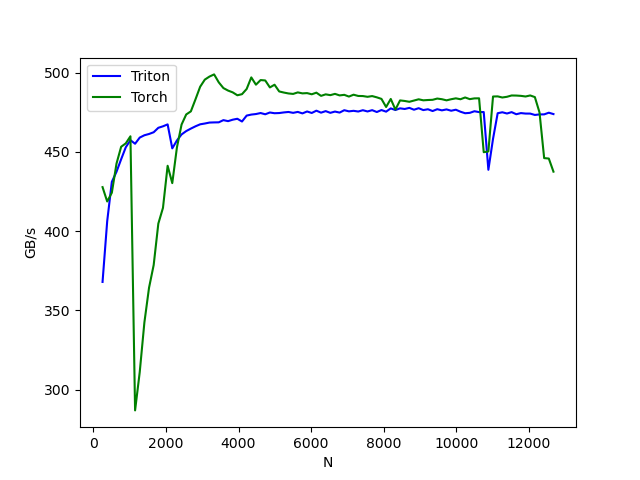
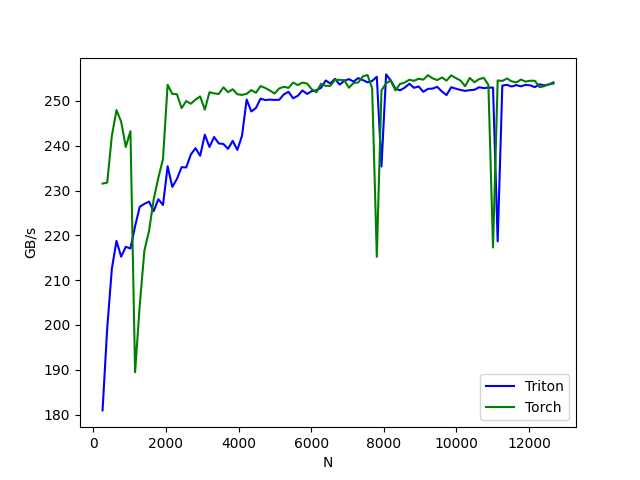
testing

diff --git a/results.html b/results.html
@@ -1,0 +1,3 @@
+<html><body>
+<image src="matmul-performance.png"/>
+</body></html>

diff --git a/02_fused_softmax/fused_softmax.py b/02_fused_softmax/fused_softmax.py
@@ -1,6 +1,5 @@
 """
-This "fused softmax" kernel will be significantly faster than pytorch's native op
- for a particular class of matrices: those whose rows can fit in the GPU's SRAM.
+This "fused softmax" kernel only works on matrices whose rows fit in the GPU's SRAM.
 
 What you'll learn:
 - The importance of reducing memory reads/writes
@@ -224,15 +223,15 @@ def softmax(x):
     num_programs = min(NUM_SM * programs_per_sm, n_rows)
         # ofc we have another limit since we've got no need to surpass the n_rows in the matrix
 
-    # grid configuration
-    grid_config = (num_programs,)
-        # first dimension: number of programs in x-directoin. Each row gets its own program
-        # our data parallelism is only along rows (first dimension) so we don't need 2D or 3D parallelism
-            # for matrix multiplication you would use (M, N)
-            # for 3D convolution you'd use (X, Y, Z)
+    # grid configuration; each row gets its own program
+    grid = (num_programs, 1, 1)
+        # the extra 1's are usually not necessary if they're not being used
+        # we use them here because the .warmup() we used earlier has a weird quirk in the way
+        #  it's implemented that forced only 3D launch grids to be inputted once it's been used
+        # in future lessons we don't use .warmup() so we'll not be required to do this again
 
     # And now we get to run the kernel with our heuristics-based launch grid
-    kernel[grid_config](
+    kernel[grid](
         x, y,
         x.stride(0), y.stride(0),
         n_rows, n_cols,
@@ -250,7 +249,7 @@ def test_softmax_kernel(size: tuple, atol=1e-3, rtol=1e-3, device=DEVICE):
     """
     # create input data
     torch.manual_seed(0)
-    assert type(size) == tuple and len(size == 2)
+    assert type(size) is tuple and len(size) == 2
     x = torch.randn(size[0], size[1], device=DEVICE)
     # run kernel & pytorch reference implementation
     z_tri = softmax(x)

diff --git a/03_matmul/matmul.py b/03_matmul/matmul.py
@@ -237,7 +237,7 @@ def _matmul_kernel(
         # Now we load blocks of A and B matrices. If multiple blocks in a group are on the same SM, 
         # they can share these loaded values, which reduces the number of expensive loads from DRAM
         a = tl.load(a_ptr + a_offsets, mask=mask[None, :], other=0.0) # shape (BLOCK_SIZE_M, BLOCK_SIZE_K)
-        b = tl.load(b_ptr + a_offsets, mask=mask[:, None], other=0.0) # shape (BLOCK_SIZE_K, BLOCK_SIZE_N)
+        b = tl.load(b_ptr + b_offsets, mask=mask[:, None], other=0.0) # shape (BLOCK_SIZE_K, BLOCK_SIZE_N)
             # fill in any masked-out parts with 0.0's since they don't have any effect on the summation in the next step
 
         # we accumulate along the K dimension
@@ -311,7 +311,7 @@ def test_matmul_kernel(size: tuple, atol=1e-2, rtol=1e-1, device=DEVICE): # TODO
     """
     # create input data
     torch.manual_seed(0)
-    assert type(size) == tuple and len(size == 2)
+    assert type(size) == tuple and len(size) == 2
     a = torch.randn((512, 512), device=DEVICE, dtype=torch.float16)
     b = torch.randn((512, 512), device=DEVICE, dtype=torch.float16)
     # run kernel & pytorch reference implementation

diff --git a/04_dropout/dropout.py b/04_dropout/dropout.py
@@ -29,7 +29,7 @@ def _seeded_dropout(
     # this line generates uniformly distributed float32 values in [0, 1), given a seed and a block of int32 oﬀsets
     random = tl.rand(seed, offsets) # shape (BLOCK_SIZE)
     # prune based on our desired probability threshold
-    x_keep = random > p # true or false so full of 0's and 1's
+    x_keep = random > p # values are either true or false
     output = tl.where(x_keep, x / (1 - p), 0.0)
         # where x_keep is True, the value is x/(1-p), and where False it's 0.0
     # write-back to DRAM
@@ -43,8 +43,8 @@ def seeded_dropout(x, p, seed):
     _seeded_dropout[grid](x, output, n_elements, p, seed, BLOCK_SIZE=1024)
     return output
 
-x = torch.randn(size=(10, ), device=DEVICE)
+x = torch.randn(size=(8, ), device=DEVICE)
 output1 = seeded_dropout(x, p=0.5, seed=123)
 output2 = seeded_dropout(x, p=0.5, seed=123)
 output3 = seeded_dropout(x, p=0.5, seed=512)
-print(x, output1, output2, output3)
+print(x, output1, output2, output3, sep="\n")

diff --git a/01_vector_addition/vector_addition.py b/01_vector_addition/vector_addition.py
@@ -22,6 +22,11 @@ import triton.language as tl
 DEVICE = torch.device(f'cuda:{torch.cuda.current_device()}')
 
 ######### Step 3 #########
+
+# un-comment this to run a numpy emulation of Triton on CPU & be able to debug with print() statements
+#import os
+#os.environ["TRITON_INTERPRET"] = "1"
+
 # this `triton.jit` decorator tells Triton to compile this function into GPU code
 @triton.jit # only a subset of python capabilities are useable within a triton kernel
 def add_kernel(x_ptr, y_ptr, output_ptr, n_elements, BLOCK_SIZE: tl.constexpr): 
